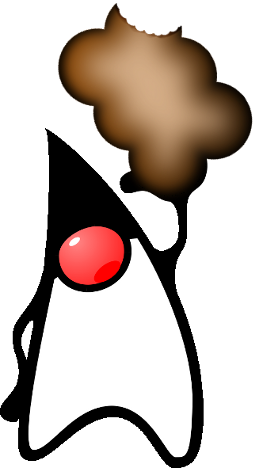
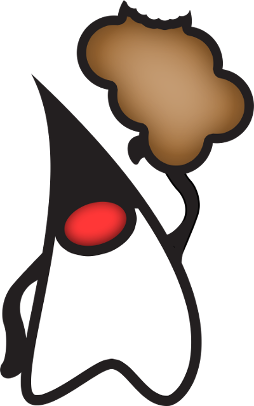
the new duke

diff --git a/sass/custom/_custom-styles.scss b/sass/custom/_custom-styles.scss
@@ -122,10 +122,6 @@ body {
   margin-bottom: 21px;
   #duke-image {
     text-align: center;
-    img {
-      width: 200px;
-      height: 369px;
-    }
   }
 }
 
